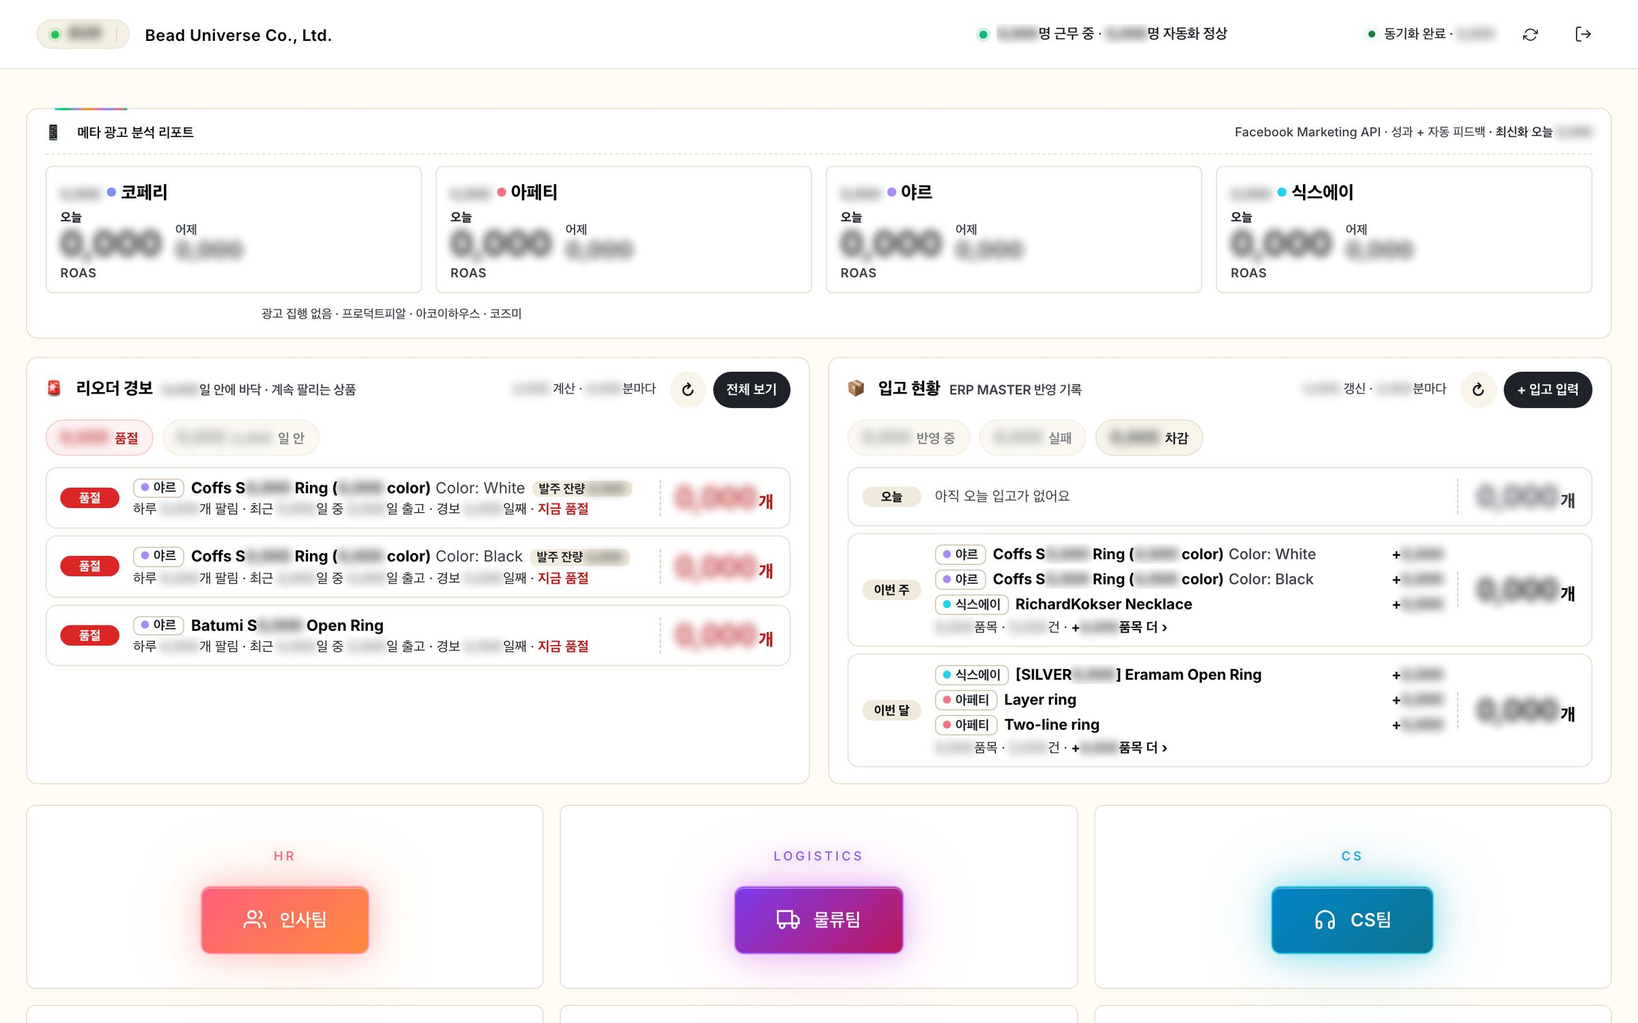
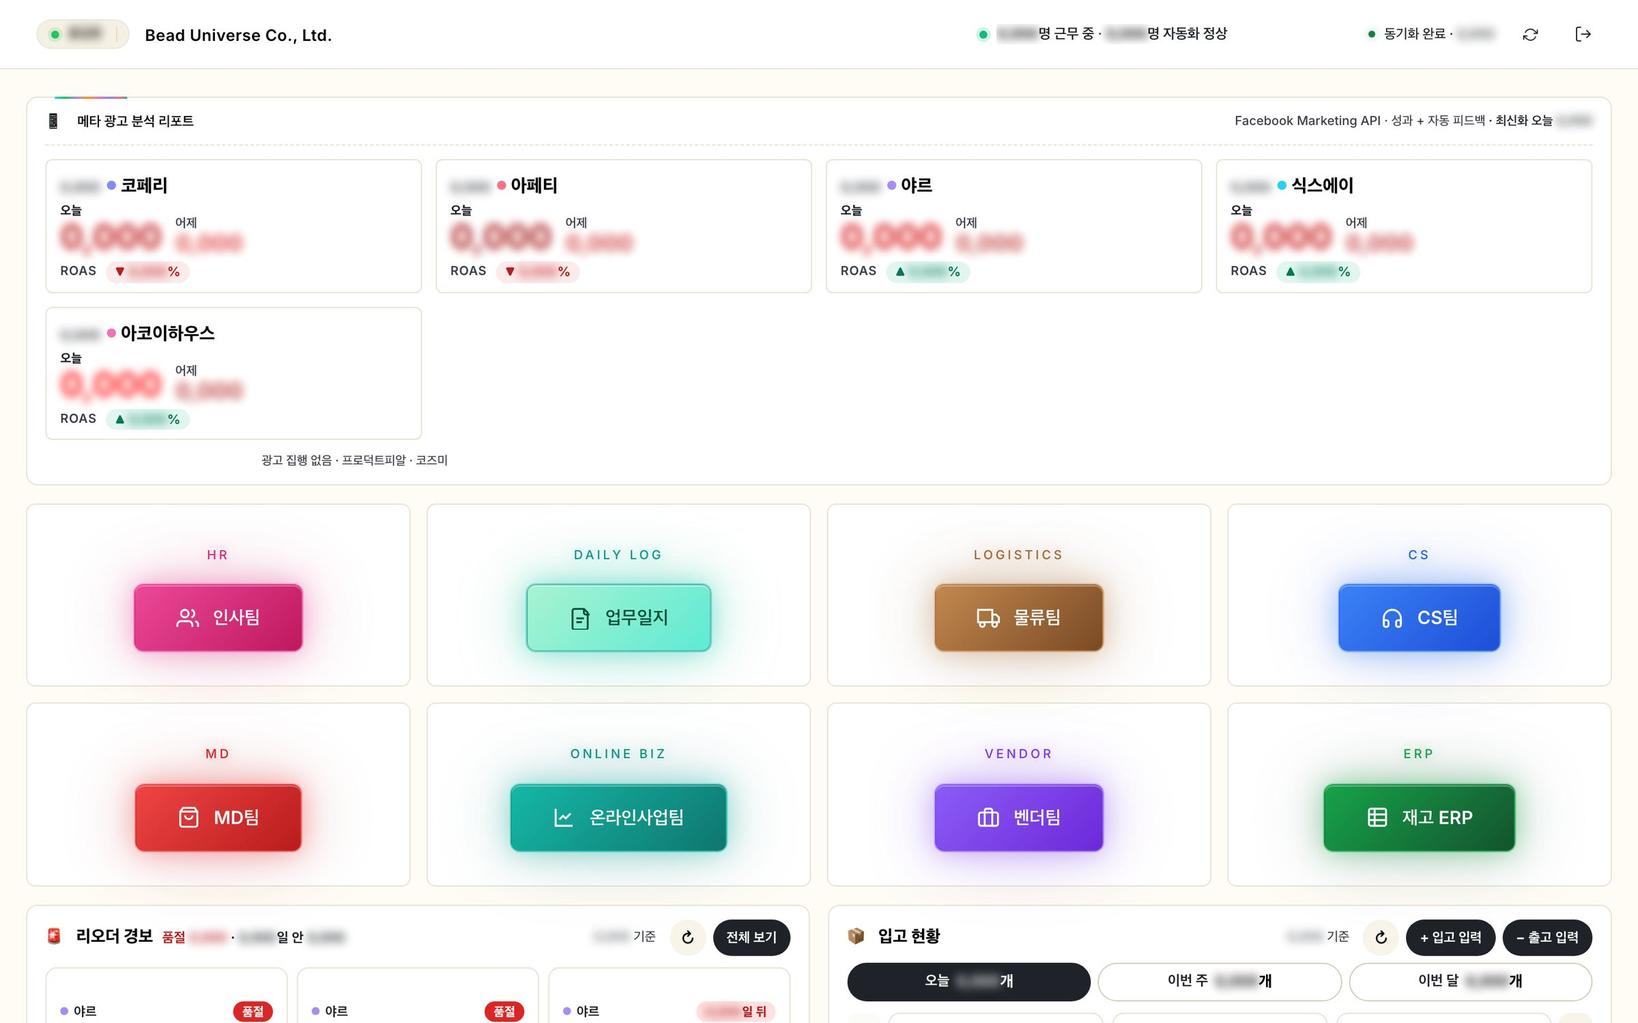
오피스 소개 페이지 최신화 — AI 직원 15명 · 자동 업무 80+ · 코드 12만 줄, 새 화면 5개(재고 ERP · MD팀 시트 · 회의록 · CS 에이전트 학습 · 광고 라이브러리), 홈 · AI 직원 · 카톡 상담 다시 찍음

diff --git a/office/ad/index.html b/office/ad/index.html
@@ -7,7 +7,7 @@
 <meta name="description" content="비드유니버스가 직접 만든 사내 전산 — 8개 브랜드의 주문 · 재고 · 광고 · 매출 · CS 를 한 화면에서.">
 <meta name="robots" content="noindex">
 <meta property="og:title" content="우리는 AI에 진심입니다 — Bead Universe Office">
-<meta property="og:description" content="AI 직원 11명이 24시간 일하는 사내 오피스를 층별로 둘러보세요. 숫자는 가렸어요.">
+<meta property="og:description" content="AI 직원 15명이 24시간 일하는 사내 오피스를 층별로 둘러보세요. 숫자는 가렸어요.">
 <meta property="og:type" content="website">
 <meta property="og:site_name" content="Bead Universe">
 <meta property="og:url" content="https://beaduniverse.kr/office/ad/">
@@ -60,6 +60,7 @@
   .stats{display:grid;grid-template-columns:repeat(4,auto);justify-content:center;gap:12px 52px;margin:44px auto 0}
   .stat b{display:block;font-size:clamp(32px,4.4vw,46px);font-weight:720;letter-spacing:-.035em;line-height:1.1}
   .stat span{font-size:13px;color:var(--dark-ink2)}
+  .upd{font-size:12px;color:#77777d;margin:26px auto 0}
   .stat small{display:block;font-size:12px;color:#77777d;margin-top:2px}
   .mark{width:36px;height:18px;flex:0 0 auto}
   .sym{display:block;width:min(300px,64vw);height:auto;margin:0 auto 30px;filter:drop-shadow(0 0 28px rgba(79,127,207,.38));animation:float 7s ease-in-out infinite}
@@ -188,19 +189,20 @@
   <img class="sym" src="img/symbol.svg" alt="Bead Universe" width="1304" height="650">
   <div class="eyebrow">Bead Universe Office</div>
   <h1><span class="grad">우리는 AI에<br>진심입니다.</span></h1>
-  <p class="lead">반복 일은 AI 직원 11명이 24시간 나눠 맡고, 사람은 판단에 집중해요. <br class="pc">8개 브랜드의 회사 일을 이 오피스 하나로 돌립니다.</p>
+  <p class="lead">반복 일은 AI 직원 15명이 24시간 나눠 맡고, 사람은 판단에 집중해요. <br class="pc">8개 브랜드의 회사 일을 이 오피스 하나로 돌립니다.</p>
   <div class="stats">
-    <div class="stat"><b>11명</b><span>AI 직원</span><small>이름 · 팀 · 책상까지</small></div>
-    <div class="stat"><b>40+</b><span>자동 업무</span><small>매일 알아서 돌아가요</small></div>
+    <div class="stat"><b>15명</b><span>AI 직원</span><small>이름 · 팀 · 책상까지</small></div>
+    <div class="stat"><b>80+</b><span>자동 업무</span><small>매일 알아서 돌아가요</small></div>
     <div class="stat"><b>24시간</b><span>근무</span><small>퇴근이 없어요</small></div>
-    <div class="stat"><b>5만 줄+</b><span>코드</span><small>AI와 함께 직접 짰어요</small></div>
+    <div class="stat"><b>12만 줄+</b><span>코드</span><small>AI와 함께 직접 짰어요</small></div>
   </div>
+  <p class="upd">2026.11.26 업데이트 · 새 AI 직원과 자동 업무가 생기면 계속 늘어나요</p>
   <nav class="dir" aria-label="층별 안내">
-    <div class="dir-h"><span>층별 안내</span><span>화면 32개</span></div>
-      <a class="dir-row" href="#f4"><b>4F</b><span>AI 직원 · 업무 툴</span><em>10</em></a>
-      <a class="dir-row" href="#f3"><b>3F</b><span>CS · 팀 운영</span><em>7</em></a>
-      <a class="dir-row" href="#f2"><b>2F</b><span>재고 · 물류 · MD</span><em>6</em></a>
-      <a class="dir-row" href="#f1"><b>1F</b><span>매출 · 광고</span><em>8</em></a>
+    <div class="dir-h"><span>층별 안내</span><span>화면 37개</span></div>
+      <a class="dir-row" href="#f4"><b>4F</b><span>AI 직원 · 업무 툴</span><em>11</em></a>
+      <a class="dir-row" href="#f3"><b>3F</b><span>CS · 팀 운영</span><em>8</em></a>
+      <a class="dir-row" href="#f2"><b>2F</b><span>재고 · 물류 · MD</span><em>8</em></a>
+      <a class="dir-row" href="#f1"><b>1F</b><span>매출 · 광고</span><em>9</em></a>
   </nav>
   <div class="hero-shot">
     <button class="win" type="button" data-src="img/home@2x.jpg" data-title="오피스 홈" data-desc="광고 성과 · 재고 경보 · 입고 현황과 팀별 바로가기" data-fl="홈">
@@ -214,7 +216,7 @@
 <section class="floor alt" id="f1" data-fl="1F">
   <div class="fhead">
     <div><span class="fl">1F</span><h2>매출 · 광고</h2><p>브랜드 매출과 광고 성과가 알아서 모여요.</p></div>
-    <div class="fctl"><span class="fcount">8개</span><button class="arw" type="button" data-dir="-1" aria-label="1F 앞으로">‹</button><button class="arw" type="button" data-dir="1" aria-label="1F 다음으로">›</button></div>
+    <div class="fctl"><span class="fcount">9개</span><button class="arw" type="button" data-dir="-1" aria-label="1F 앞으로">‹</button><button class="arw" type="button" data-dir="1" aria-label="1F 다음으로">›</button></div>
   </div>
   <div class="row" tabindex="0" aria-label="1F 매출 · 광고 — 옆으로 넘겨 보기">
       <article class="card"><button class="scr" type="button" data-src="img/mkt@2x.jpg" aria-label="실시간 매출 크게 보기"><span class="bar"><i></i><i></i><i></i><em>온라인사업팀</em></span><span class="img"><img src="img/mkt.jpg" srcset="img/mkt.jpg 1200w, img/mkt@2x.jpg 2400w" sizes="(max-width:734px) 80vw, 440px" width="1200" height="750" alt="실시간 매출" loading="lazy" style="object-position:left top"></span></button><h3>실시간 매출</h3><p>8개 브랜드 자사몰 매출을 오늘 · 어제로</p></article>
@@ -225,14 +227,17 @@
       <article class="card"><button class="scr" type="button" data-src="img/signage@2x.jpg" aria-label="광고 전광판 크게 보기"><span class="bar"><i></i><i></i><i></i><em>광고 전광판</em></span><span class="img"><img src="img/signage.jpg" srcset="img/signage.jpg 1200w, img/signage@2x.jpg 2400w" sizes="(max-width:734px) 80vw, 440px" width="1200" height="690" alt="광고 전광판" loading="lazy" style="object-position:left top"></span></button><h3>광고 전광판</h3><p>지금 집행 중인 광고 소재와 효율</p></article>
       <article class="card"><button class="scr" type="button" data-src="img/vendor@2x.jpg" aria-label="블로그페이 매출 크게 보기"><span class="bar"><i></i><i></i><i></i><em>벤더팀</em></span><span class="img"><img src="img/vendor.jpg" srcset="img/vendor.jpg 1200w, img/vendor@2x.jpg 2400w" sizes="(max-width:734px) 80vw, 440px" width="1200" height="288" alt="블로그페이 매출" loading="lazy" style="object-position:left top"></span></button><h3>블로그페이 매출</h3><p>벤더팀 공동구매 매출 현황판</p></article>
       <article class="card"><button class="scr" type="button" data-src="img/gongu@2x.jpg" aria-label="공구 캘린더 크게 보기"><span class="bar"><i></i><i></i><i></i><em>벤더팀 · 공구 일정</em></span><span class="img"><img src="img/gongu.jpg" srcset="img/gongu.jpg 1200w, img/gongu@2x.jpg 2400w" sizes="(max-width:734px) 80vw, 440px" width="1200" height="750" alt="공구 캘린더" loading="lazy" style="object-position:left top"></span></button><h3>공구 캘린더</h3><p>셀러별 공동구매 일정을 한 달 단위로</p></article>
+      <article class="card"><button class="scr" type="button" data-src="img/adlib@2x.jpg" aria-label="주얼리 광고 라이브러리 크게 보기"><span class="bar"><i></i><i></i><i></i><em>업무용 툴 · 광고 라이브러리</em></span><span class="img"><img src="img/adlib.jpg" srcset="img/adlib.jpg 1200w, img/adlib@2x.jpg 2400w" sizes="(max-width:734px) 80vw, 440px" width="1200" height="700" alt="주얼리 광고 라이브러리" loading="lazy" style="object-position:left top"></span></button><h3>주얼리 광고 라이브러리</h3><p>잘 나가는 주얼리 · 패션 광고를 매일 모아 점수로</p></article>
   </div>
 </section>
 <section class="floor" id="f2" data-fl="2F">
   <div class="fhead">
     <div><span class="fl">2F</span><h2>재고 · 물류 · MD</h2><p>팔리면 빠지고, 모자라면 먼저 알려줘요.</p></div>
-    <div class="fctl"><span class="fcount">6개</span><button class="arw" type="button" data-dir="-1" aria-label="2F 앞으로">‹</button><button class="arw" type="button" data-dir="1" aria-label="2F 다음으로">›</button></div>
+    <div class="fctl"><span class="fcount">8개</span><button class="arw" type="button" data-dir="-1" aria-label="2F 앞으로">‹</button><button class="arw" type="button" data-dir="1" aria-label="2F 다음으로">›</button></div>
   </div>
   <div class="row" tabindex="0" aria-label="2F 재고 · 물류 · MD — 옆으로 넘겨 보기">
+      <article class="card"><button class="scr" type="button" data-src="img/erp@2x.jpg" aria-label="재고 ERP 크게 보기"><span class="bar"><i></i><i></i><i></i><em>재고 ERP</em></span><span class="img"><img src="img/erp.jpg" srcset="img/erp.jpg 1200w, img/erp@2x.jpg 2400w" sizes="(max-width:734px) 80vw, 440px" width="1200" height="750" alt="재고 ERP" loading="lazy" style="object-position:left top"></span></button><h3>재고 ERP</h3><p>송장이 나가면 5분 안에 빠지는 우리 회사 재고 장부</p></article>
+      <article class="card"><button class="scr" type="button" data-src="img/mdsheet@2x.jpg" aria-label="MD팀 시트 크게 보기"><span class="bar"><i></i><i></i><i></i><em>MD팀 · 시트</em></span><span class="img"><img src="img/mdsheet.jpg" srcset="img/mdsheet.jpg 1200w, img/mdsheet@2x.jpg 2400w" sizes="(max-width:734px) 80vw, 440px" width="1200" height="717" alt="MD팀 시트" loading="lazy" style="object-position:left top"></span></button><h3>MD팀 시트</h3><p>구글시트 대신 오피스 안 표 — 함수 · 서식 · 되돌리기까지</p></article>
       <article class="card"><button class="scr" type="button" data-src="img/reorder@2x.jpg" aria-label="리오더 경보 크게 보기"><span class="bar"><i></i><i></i><i></i><em>홈 · 리오더 경보</em></span><span class="img"><img src="img/reorder.jpg" srcset="img/reorder.jpg 800w, img/reorder@2x.jpg 1600w" sizes="(max-width:734px) 80vw, 440px" width="800" height="427" alt="리오더 경보" loading="lazy" style="object-position:left top"></span></button><h3>리오더 경보</h3><p>팔리는 속도로 품절 날짜를 계산해 먼저 알림</p></article>
       <article class="card"><button class="scr" type="button" data-src="img/inbound@2x.jpg" aria-label="입고 현황 크게 보기"><span class="bar"><i></i><i></i><i></i><em>홈 · 입고 현황</em></span><span class="img"><img src="img/inbound.jpg" srcset="img/inbound.jpg 720w, img/inbound@2x.jpg 1440w" sizes="(max-width:734px) 80vw, 440px" width="720" height="387" alt="입고 현황" loading="lazy" style="object-position:left top"></span></button><h3>입고 현황</h3><p>입고되면 재고 장부에 바로 반영</p></article>
       <article class="card"><button class="scr" type="button" data-src="img/sixstock@2x.jpg" aria-label="실시간 재고 크게 보기"><span class="bar"><i></i><i></i><i></i><em>실시간 재고</em></span><span class="img"><img src="img/sixstock.jpg" srcset="img/sixstock.jpg 1200w, img/sixstock@2x.jpg 2400w" sizes="(max-width:734px) 80vw, 440px" width="1200" height="683" alt="실시간 재고" loading="lazy" style="object-position:left top"></span></button><h3>실시간 재고</h3><p>브랜드 · 상품 · 옵션별 남은 재고</p></article>
@@ -244,27 +249,29 @@
 <section class="floor alt" id="f3" data-fl="3F">
   <div class="fhead">
     <div><span class="fl">3F</span><h2>CS · 팀 운영</h2><p>고객 응대부터 팀 일까지 오피스 안에서.</p></div>
-    <div class="fctl"><span class="fcount">7개</span><button class="arw" type="button" data-dir="-1" aria-label="3F 앞으로">‹</button><button class="arw" type="button" data-dir="1" aria-label="3F 다음으로">›</button></div>
+    <div class="fctl"><span class="fcount">8개</span><button class="arw" type="button" data-dir="-1" aria-label="3F 앞으로">‹</button><button class="arw" type="button" data-dir="1" aria-label="3F 다음으로">›</button></div>
   </div>
   <div class="row" tabindex="0" aria-label="3F CS · 팀 운영 — 옆으로 넘겨 보기">
-      <article class="card"><button class="scr" type="button" data-src="img/cs@2x.jpg" aria-label="카카오톡 상담 크게 보기"><span class="bar"><i></i><i></i><i></i><em>CS팀</em></span><span class="img"><img src="img/cs.jpg" srcset="img/cs.jpg 1200w, img/cs@2x.jpg 2400w" sizes="(max-width:734px) 80vw, 440px" width="1200" height="750" alt="카카오톡 상담" loading="lazy" style="object-position:left top"></span></button><h3>카카오톡 상담</h3><p>브랜드별 톡채널을 모아 오래 기다린 고객부터</p></article>
+      <article class="card"><button class="scr" type="button" data-src="img/cs@2x.jpg" aria-label="카카오톡 상담 크게 보기"><span class="bar"><i></i><i></i><i></i><em>CS팀</em></span><span class="img"><img src="img/cs.jpg" srcset="img/cs.jpg 1200w, img/cs@2x.jpg 2400w" sizes="(max-width:734px) 80vw, 440px" width="1200" height="750" alt="카카오톡 상담" loading="lazy" style="object-position:left top"></span></button><h3>카카오톡 상담</h3><p>브랜드별 톡채널을 한곳에 — AI 에이전트가 답을 먼저 준비</p></article>
+      <article class="card"><button class="scr" type="button" data-src="img/meeting@2x.jpg" aria-label="주간 · 마케팅 회의록 크게 보기"><span class="bar"><i></i><i></i><i></i><em>주간&amp;마케팅 회의록</em></span><span class="img"><img src="img/meeting.jpg" srcset="img/meeting.jpg 1200w, img/meeting@2x.jpg 2400w" sizes="(max-width:734px) 80vw, 440px" width="1200" height="583" alt="주간 · 마케팅 회의록" loading="lazy" style="object-position:left top"></span></button><h3>주간 · 마케팅 회의록</h3><p>매주 벤치마킹 · 회의 메모 · 할 일을 한 화면에</p></article>
       <article class="card"><button class="scr" type="button" data-src="img/claims@2x.jpg" aria-label="반품 · 교환 분석 크게 보기"><span class="bar"><i></i><i></i><i></i><em>CS팀 · 반품 · 교환</em></span><span class="img"><img src="img/claims.jpg" srcset="img/claims.jpg 1200w, img/claims@2x.jpg 2400w" sizes="(max-width:734px) 80vw, 440px" width="1200" height="308" alt="반품 · 교환 분석" loading="lazy" style="object-position:left top"></span></button><h3>반품 · 교환 분석</h3><p>모든 플랫폼의 반품률 · 사유 · 처리 기간</p></article>
       <article class="card"><button class="scr" type="button" data-src="img/diary@2x.jpg" aria-label="업무일지 크게 보기"><span class="bar"><i></i><i></i><i></i><em>업무일지</em></span><span class="img"><img src="img/diary.jpg" srcset="img/diary.jpg 1200w, img/diary@2x.jpg 2400w" sizes="(max-width:734px) 80vw, 440px" width="1200" height="717" alt="업무일지" loading="lazy" style="object-position:left top"></span></button><h3>업무일지</h3><p>팀원별 업무 보드와 미작성 알림</p></article>
       <article class="card"><button class="scr" type="button" data-src="img/org@2x.jpg" aria-label="조직도 크게 보기"><span class="bar"><i></i><i></i><i></i><em>인사팀</em></span><span class="img"><img src="img/org.jpg" srcset="img/org.jpg 1200w, img/org@2x.jpg 2400w" sizes="(max-width:734px) 80vw, 440px" width="1200" height="454" alt="조직도" loading="lazy" style="object-position:left top"></span></button><h3>조직도</h3><p>팀 구성과 직원 연락처를 한 화면에</p></article>
       <article class="card"><button class="scr" type="button" data-src="img/leave@2x.jpg" aria-label="연차 현황 크게 보기"><span class="bar"><i></i><i></i><i></i><em>인사팀 · 연차</em></span><span class="img"><img src="img/leave.jpg" srcset="img/leave.jpg 1200w, img/leave@2x.jpg 2400w" sizes="(max-width:734px) 80vw, 440px" width="1200" height="225" alt="연차 현황" loading="lazy" style="object-position:left top"></span></button><h3>연차 현황</h3><p>입사일 기준으로 남은 연차를 자동 계산</p></article>
-      <article class="card"><button class="scr" type="button" data-src="img/teams@2x.jpg" aria-label="팀별 입구 크게 보기"><span class="bar"><i></i><i></i><i></i><em>오피스 · 홈</em></span><span class="img"><img src="img/teams.jpg" srcset="img/teams.jpg 1200w, img/teams@2x.jpg 2400w" sizes="(max-width:734px) 80vw, 440px" width="1200" height="440" alt="팀별 입구" loading="lazy" style="object-position:left top"></span></button><h3>팀별 입구</h3><p>9개 팀이 각자 화면으로 바로</p></article>
+      <article class="card"><button class="scr" type="button" data-src="img/teams@2x.jpg" aria-label="팀별 입구 크게 보기"><span class="bar"><i></i><i></i><i></i><em>오피스 · 홈</em></span><span class="img"><img src="img/teams.jpg" srcset="img/teams.jpg 1200w, img/teams@2x.jpg 2400w" sizes="(max-width:734px) 80vw, 440px" width="1200" height="292" alt="팀별 입구" loading="lazy" style="object-position:left top"></span></button><h3>팀별 입구</h3><p>9개 팀이 각자 화면으로 바로</p></article>
       <article class="card"><button class="scr" type="button" data-src="img/quote@2x.jpg" aria-label="견적서 AI 크게 보기"><span class="bar"><i></i><i></i><i></i><em>디자인팀 · 견적서</em></span><span class="img"><img src="img/quote.jpg" srcset="img/quote.jpg 1200w, img/quote@2x.jpg 2400w" sizes="(max-width:734px) 80vw, 440px" width="1200" height="750" alt="견적서 AI" loading="lazy" style="object-position:left top"></span></button><h3>견적서 AI</h3><p>끌어다 놓으면 업체 · 품목 · 금액을 AI 가 정리</p></article>
   </div>
 </section>
 <section class="floor" id="f4" data-fl="4F">
   <div class="fhead">
     <div><span class="fl">4F</span><h2>AI 직원 · 업무 툴</h2><p>AI 직원에게 말로 맡기고, 도구는 직접 만들어 써요.</p></div>
-    <div class="fctl"><span class="fcount">10개</span><button class="arw" type="button" data-dir="-1" aria-label="4F 앞으로">‹</button><button class="arw" type="button" data-dir="1" aria-label="4F 다음으로">›</button></div>
+    <div class="fctl"><span class="fcount">11개</span><button class="arw" type="button" data-dir="-1" aria-label="4F 앞으로">‹</button><button class="arw" type="button" data-dir="1" aria-label="4F 다음으로">›</button></div>
   </div>
   <div class="row" tabindex="0" aria-label="4F AI 직원 · 업무 툴 — 옆으로 넘겨 보기">
-      <article class="card"><button class="scr" type="button" data-src="img/agents@2x.jpg" aria-label="AI 직원 오피스 크게 보기"><span class="bar"><i></i><i></i><i></i><em>에이전트 오피스</em></span><span class="img"><img src="img/agents.jpg" srcset="img/agents.jpg 1200w, img/agents@2x.jpg 2400w" sizes="(max-width:734px) 80vw, 440px" width="1200" height="983" alt="AI 직원 오피스" loading="lazy" style="object-position:left top"></span></button><h3>AI 직원 오피스</h3><p>AI 직원 11명이 일하는 모습을 실시간으로</p></article>
+      <article class="card"><button class="scr" type="button" data-src="img/agents@2x.jpg" aria-label="AI 직원 오피스 크게 보기"><span class="bar"><i></i><i></i><i></i><em>에이전트 오피스</em></span><span class="img"><img src="img/agents.jpg" srcset="img/agents.jpg 1200w, img/agents@2x.jpg 2400w" sizes="(max-width:734px) 80vw, 440px" width="1200" height="983" alt="AI 직원 오피스" loading="lazy" style="object-position:left top"></span></button><h3>AI 직원 오피스</h3><p>AI 직원들이 팀별 책상에서 일하는 모습을 실시간으로</p></article>
       <article class="card"><button class="scr" type="button" data-src="img/agents-chat@2x.jpg" aria-label="말로 일 시키기 크게 보기"><span class="bar"><i></i><i></i><i></i><em>에이전트 오피스 · 리안</em></span><span class="img"><img src="img/agents-chat.jpg" srcset="img/agents-chat.jpg 1200w, img/agents-chat@2x.jpg 2400w" sizes="(max-width:734px) 80vw, 440px" width="1200" height="750" alt="말로 일 시키기" loading="lazy" style="object-position:left top"></span></button><h3>말로 일 시키기</h3><p>검수 · 요약 · 이슈 확인을 대화로</p></article>
       <article class="card"><button class="scr" type="button" data-src="img/agents-receive@2x.jpg" aria-label="입고도 말로 크게 보기"><span class="bar"><i></i><i></i><i></i><em>에이전트 오피스 · 모아</em></span><span class="img"><img src="img/agents-receive.jpg" srcset="img/agents-receive.jpg 1200w, img/agents-receive@2x.jpg 2400w" sizes="(max-width:734px) 80vw, 440px" width="1200" height="750" alt="입고도 말로" loading="lazy" style="object-position:left top"></span></button><h3>입고도 말로</h3><p>&quot;입고 하기&quot; 한 마디로 재고 장부까지</p></article>
+      <article class="card"><button class="scr" type="button" data-src="img/csagent@2x.jpg" aria-label="CS 에이전트 학습 크게 보기"><span class="bar"><i></i><i></i><i></i><em>CS팀 · 에이전트 학습</em></span><span class="img"><img src="img/csagent.jpg" srcset="img/csagent.jpg 1200w, img/csagent@2x.jpg 2400w" sizes="(max-width:734px) 80vw, 440px" width="1200" height="700" alt="CS 에이전트 학습" loading="lazy" style="object-position:left top"></span></button><h3>CS 에이전트 학습</h3><p>고객 질문과 정리된 답을 배워 가는 상담 에이전트</p></article>
       <article class="card"><button class="scr" type="button" data-src="img/launcher@2x.jpg" aria-label="업무용 툴 모음 크게 보기"><span class="bar"><i></i><i></i><i></i><em>오피스 · 업무용 툴</em></span><span class="img"><img src="img/launcher.jpg" srcset="img/launcher.jpg 1200w, img/launcher@2x.jpg 2400w" sizes="(max-width:734px) 80vw, 440px" width="1200" height="389" alt="업무용 툴 모음" loading="lazy" style="object-position:left top"></span></button><h3>업무용 툴 모음</h3><p>오피스 안에서 바로 여는 도구들</p></article>
       <article class="card"><button class="scr" type="button" data-src="img/studio@2x.jpg" aria-label="컨텐츠 스튜디오 크게 보기"><span class="bar"><i></i><i></i><i></i><em>광고 컨텐츠 스튜디오</em></span><span class="img"><img src="img/studio.jpg" srcset="img/studio.jpg 1200w, img/studio@2x.jpg 2400w" sizes="(max-width:734px) 80vw, 440px" width="1200" height="750" alt="컨텐츠 스튜디오" loading="lazy" style="object-position:left top"></span></button><h3>컨텐츠 스튜디오</h3><p>릴스 · 스토리 광고를 템플릿으로 대량 제작</p></article>
       <article class="card"><button class="scr" type="button" data-src="img/namegen@2x.jpg" aria-label="제품명 생성기 크게 보기"><span class="bar"><i></i><i></i><i></i><em>제품명 생성기</em></span><span class="img"><img src="img/namegen.jpg" srcset="img/namegen.jpg 1200w, img/namegen@2x.jpg 2400w" sizes="(max-width:734px) 80vw, 440px" width="1200" height="750" alt="제품명 생성기" loading="lazy" style="object-position:left top"></span></button><h3>제품명 생성기</h3><p>도시 이름에서 브랜드 규칙에 맞는 상품명</p></article>
